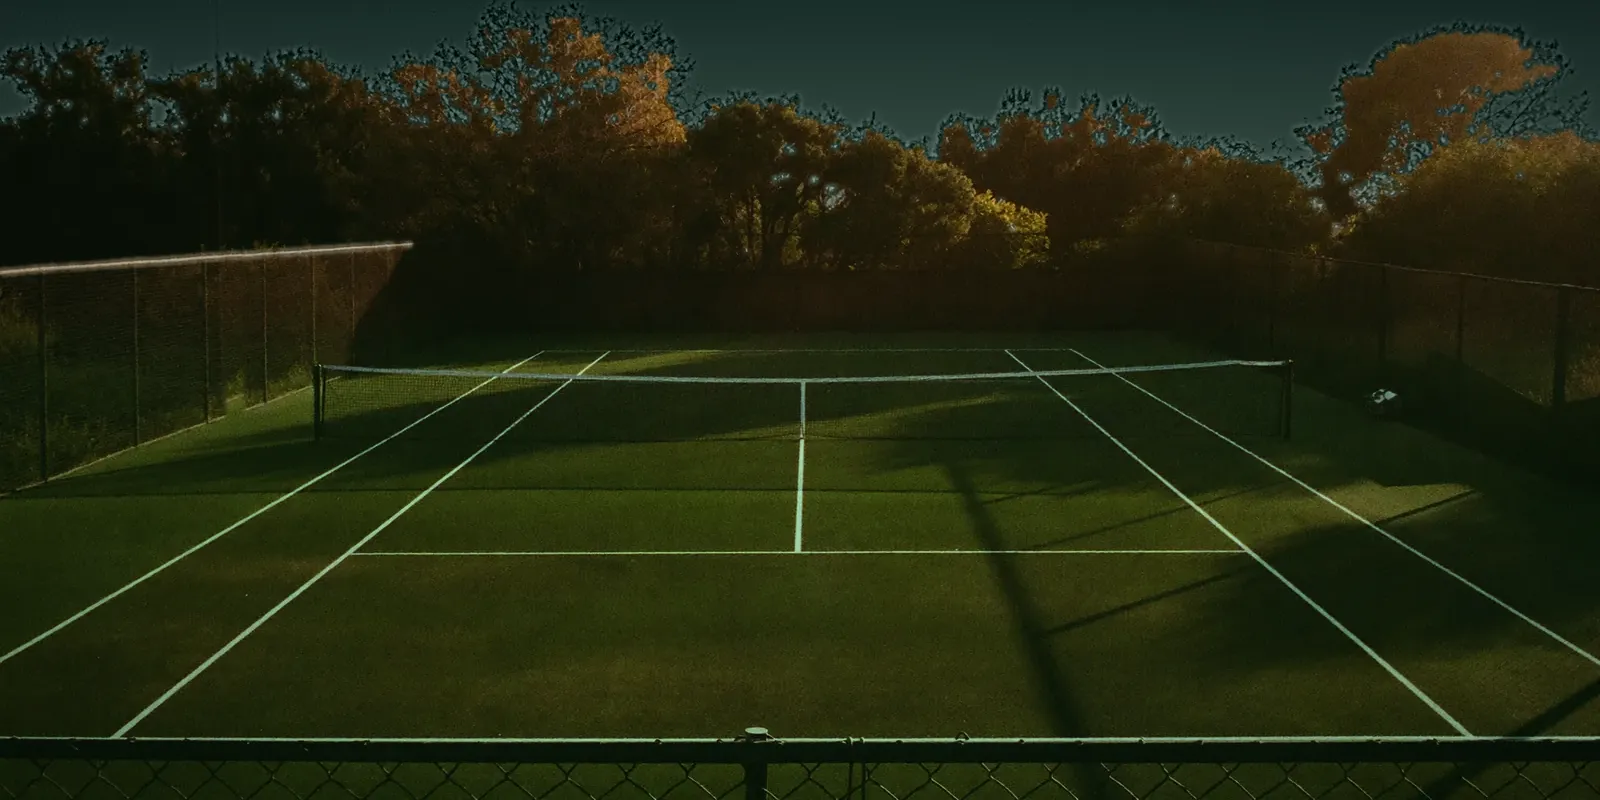
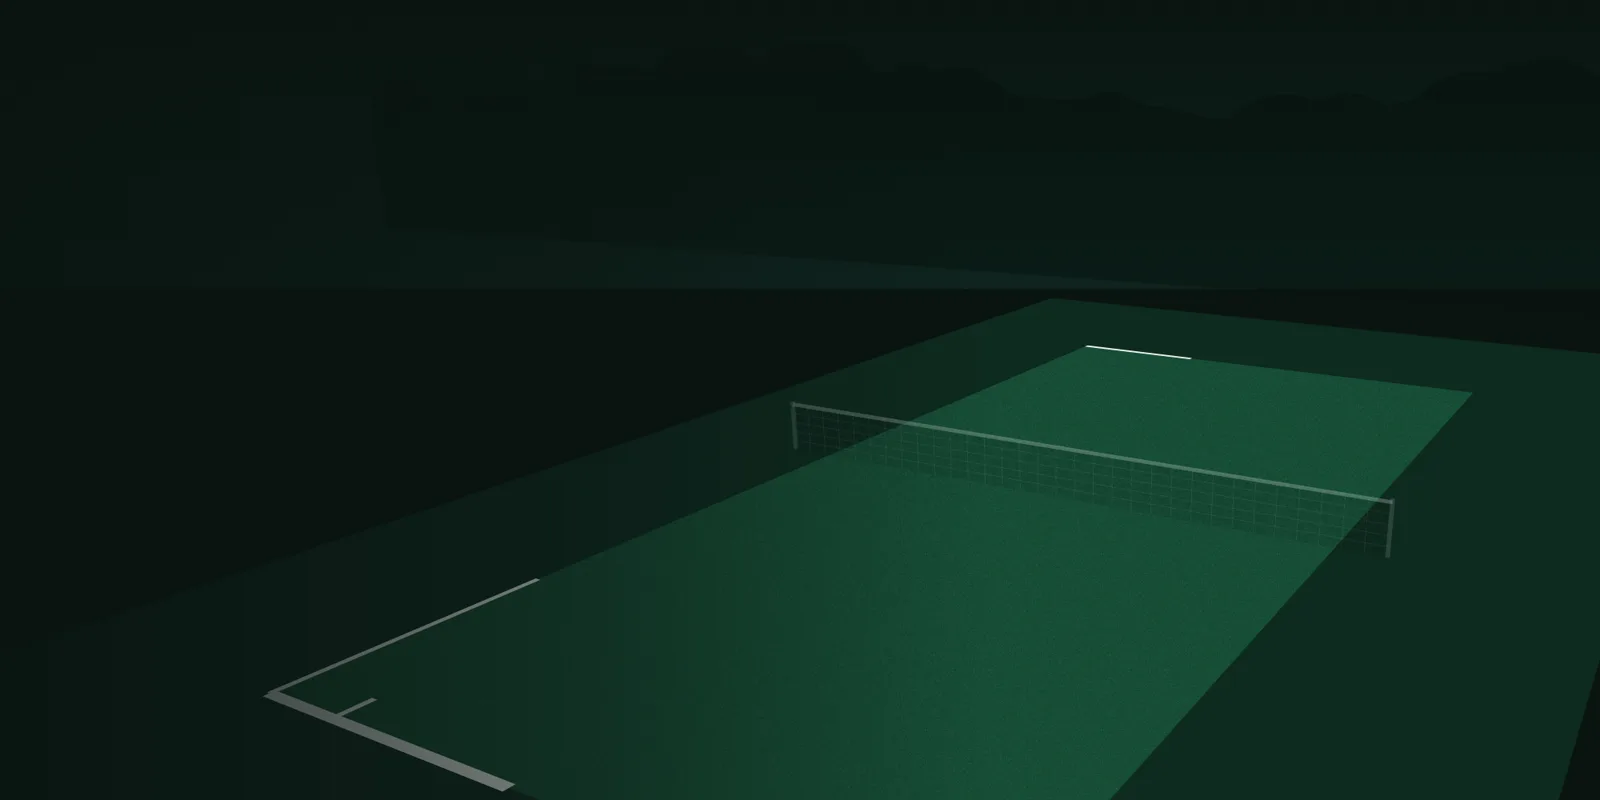
landing: back to the drawn court hero with a moving ball, no light poles

diff --git a/landing.html b/landing.html
@@ -430,6 +430,10 @@ if (window.Site && Site.session()) document.getElementById("backLink").hidden = 
     g.globalAlpha = on * .9;
     poly([[-HW, -HL], [HW, -HL], [HW, HL], [-HW, HL]]); g.fillStyle = g.createPattern(grain, "repeat"); g.fill();
     g.globalAlpha = 1;
+    const c0 = P(0, 0), r = Math.max(W, H) * .58;
+    g.globalCompositeOperation = "screen";                        // light on the court
+    glow(c0[0], c0[1], r, "rgba(236,255,214,.3)", smooth(.2, 1, intro));
+    g.globalCompositeOperation = "source-over";
     g.fillStyle = "rgba(4,14,10,.3)";                             // the net's shadow
     if (intro > .5) { g.globalAlpha = smooth(.5, 1, intro) * (1 - cam.rise); poly([[-6.4, 0], [6.4, 0], [6.4, .85], [-6.4, .85]]); g.fill(); g.globalAlpha = 1; }
     g.fillStyle = C.line;
@@ -465,31 +469,27 @@ if (window.Site && Site.session()) document.getElementById("backLink").hidden = 
     }
     return SHOTS[SHOTS.length - 1][1];
   }
-  // The opening shot is a real photo of a court. The ball is placed on it with the court's own perspective,
-  // measured from the photo's lines; scrolling fades the photo into the app's top-down view.
-  const PW = 1600, PH = 1067, HM = [74.989005, 37.04882, 802.284402, -.977408, 20.682633, 707.352523, -.000974, .045422];
-  const photo = new Image();
-  let fit = { s: 1, x: 0, y: 0 };
-  function fitPhoto(push) {
-    const s = Math.max(W / PW, H / PH) * (wide ? 1.14 : 1) * (1 + push * .07);
-    fit = { s, x: clamp((wide ? W * .6 : W * .5) - PW * s / 2, W - PW * s, 0), y: H - PH * s };
-  }
-  function onPhoto(x, y, z = 0) {
-    const m = (a, b) => { const w = HM[6] * a + HM[7] * b + 1; return [(HM[0] * a + HM[1] * b + HM[2]) / w, (HM[3] * a + HM[4] * b + HM[5]) / w]; };
-    const q = m(x, y), e = m(x + 1, y), px = Math.hypot(e[0] - q[0], e[1] - q[1]);
-    return [fit.x + q[0] * fit.s, fit.y + (q[1] - z * px * .83) * fit.s, px * fit.s];
-  }
   function drawRally(sec, a) {
-    if (a <= 0 || sec < 0) return;
+    if (a <= 0) return;
+    if (sec < 0) return;
     const round = Math.floor(sec / (LOOP + HOLD)), t = sec % (LOOP + HOLD), m = round % 2 ? -1 : 1;
     const at = (u) => { const q = ballAt(clamp(u, 0, LOOP)); return [q[0] * m, q[1], q[2]]; };
-    const fade = a * (t > LOOP ? 1 - smooth(LOOP + .4, LOOP + 1, t) : smooth(0, .25, t));
-    const b = at(t), sh = onPhoto(b[0], b[1]), p = onPhoto(...b), o = onPhoto(...at(t - .012)), r = Math.max(2.2, p[2] * .036);
-    g.globalAlpha = fade * .5 / (1 + b[2] * .5); g.fillStyle = "#050C08";          // soft shadow on the court
-    g.beginPath(); g.ellipse(sh[0], sh[1], r * 1.5, r * .6, 0, 0, 7); g.fill();
-    g.lineCap = "round"; g.strokeStyle = "#DDE86A"; g.lineWidth = r * 2;           // motion blur, as a camera sees it
-    g.globalAlpha = fade * .85; g.beginPath(); g.moveTo(o[0], o[1]); g.lineTo(p[0], p[1]); g.stroke();
-    g.globalAlpha = 1;
+    const fade = a * (t > LOOP ? 1 - smooth(LOOP + .8, LOOP + HOLD, t) : smooth(0, .25, t));
+    const n = 16;
+    g.lineCap = "round";
+    for (let i = n; i > 0; i--) {           // trail
+      const p = P(...at(t - i * .02)), q = P(...at(t - (i - 1) * .02));
+      g.globalAlpha = fade * (1 - i / n) * .7; g.strokeStyle = C.ball; g.lineWidth = Math.max(1.5, q[2] * .075 * (1 - i / n));
+      g.beginPath(); g.moveTo(p[0], p[1]); g.lineTo(q[0], q[1]); g.stroke();
+    }
+    const b = at(t), sh = P(b[0], b[1], 0), p = P(...b), r = Math.max(4.5, p[2] * .11);
+    g.globalAlpha = fade * .4; g.fillStyle = "#04100A"; g.beginPath(); g.ellipse(sh[0], sh[1], r * 1.3, r * .5, 0, 0, 7); g.fill();
+    glow(p[0], p[1], r * 5, "rgba(198,218,44,.55)", fade);
+    g.globalAlpha = fade; g.fillStyle = C.ball; g.beginPath(); g.arc(p[0], p[1], r, 0, 7); g.fill(); g.globalAlpha = 1;
+    if (t > LOOP - .3) {                    // the miss
+      const k = clamp((t - LOOP + .3) / .9), q = P(...at(LOOP));
+      g.globalAlpha = fade * (1 - k); g.strokeStyle = C.lost; g.lineWidth = 2.5; g.beginPath(); g.arc(q[0], q[1], r + k * q[2] * .9, 0, 7); g.stroke(); g.globalAlpha = 1;
+    }
   }
 
   // The 11 points one player lost in the example match. Counts are real; spots are illustrative.
@@ -538,18 +538,10 @@ if (window.Site && Site.session()) document.getElementById("backLink").hidden = 
       g = main;
     }
     g.drawImage(bg, 0, 0, W, H);
-    const ready = photo.complete && photo.naturalWidth, photoA = ready ? 1 - smooth(.1, .2, p) : 0;
-    if (ready && p < .28) {                 // the photo dips to dark, then the data view comes up: never two courts at once
-      g.globalAlpha = 1 - smooth(.2, .28, p); g.fillStyle = C.deep; g.fillRect(0, 0, W, H); g.globalAlpha = 1;
-    }
-    if (photoA) {
-      fitPhoto(smooth(0, .3, p));
-      g.globalAlpha = photoA; g.drawImage(photo, fit.x, fit.y, PW * fit.s, PH * fit.s); g.globalAlpha = 1;
-      drawRally(sec - .6, photoA);
-    }
+    drawRally(sec - 1.1, 1 - smooth(.14, .3, p));
     drawMarks(p);
     // Fade for the words over the court on narrow screens and on the left on wide ones.
-    const sh = wide ? g.createLinearGradient(0, 0, W * .54, 0) : g.createLinearGradient(0, 0, 0, H * .72);
+    const sh = wide ? g.createLinearGradient(0, 0, W * .62, 0) : g.createLinearGradient(0, 0, 0, H * .72);
     sh.addColorStop(0, "rgba(10,20,16,.92)"); sh.addColorStop(.6, "rgba(10,20,16,.5)"); sh.addColorStop(1, "rgba(10,20,16,0)");
     g.globalAlpha = 1 - smooth(.2, .45, p) * (wide ? .35 : 1); g.fillStyle = sh; g.fillRect(0, 0, W, H); g.globalAlpha = 1;
     if (!calm) {
@@ -571,8 +563,6 @@ if (window.Site && Site.session()) document.getElementById("backLink").hidden = 
   addEventListener("resize", () => { resize(); onScroll(); });
   new IntersectionObserver(([e]) => { visible = e.isIntersecting; if (visible) tick(); }).observe(stage);
   document.fonts?.ready.then(tick);
-  photo.onload = tick;
-  photo.src = "court-dusk-2400.webp";
   resize(); onScroll();
 })();
 </script>

diff --git a/modal_app.py b/modal_app.py
@@ -2120,7 +2120,7 @@ def web_app():
     _assets = {"passcode.js": "text/javascript", "site.js": "text/javascript", "site.css": "text/css", "tokens.css": "text/css", "court.css": "text/css",
                "recorder.js": "text/javascript", "record_match.js": "text/javascript",
                "manifest.webmanifest": "application/manifest+json",
-               "icon.svg": "image/svg+xml", "icon-192.png": "image/png", "icon-512.png": "image/png", "court-dusk-2400.webp": "image/webp",
+               "icon.svg": "image/svg+xml", "icon-192.png": "image/png", "icon-512.png": "image/png",
                **{f"{n}-{w}.webp": "image/webp" for n in ("hero-court", "band-phone", "band-ball", "court-night") for w in (800, 1600)}}
 
     @fastapi_app.get("/{name}")

diff --git a/DESIGN.md b/DESIGN.md
@@ -44,8 +44,8 @@
 
 ## Landing page (`/`, Nov 4)
 - One shared header (`site.js`, same logo, links change when signed in) and footer. The logo always opens this page; signed-in players also get an About link. Signed-in visitors see "Go to your dashboard"; the app pages link back here from the footer and the empty dashboard.
-- Landing opens on a real photo (`court-dusk-2400.webp`, the film court photo with the light pole removed, graded to dusk), with a small ball placed using the court's own perspective; no lights, no glow (Rudra, Nov 4: less "AI vibe-code"). Scrolling dips to dark, then the drawn top-down data view takes over.
-- `court-night-*.webp`: a crop of that photo, used as the top band on the dashboard, report, account and new analysis pages, so every page opens on the same court.
+- Landing opens on the drawn back-fence court with a moving ball: no light poles, no players (Rudra, Nov 4: tried a dusk photo and reactive players; players hurt the premium feel).
+- `court-night-*.webp`: a still of the landing court, used as the top band on the dashboard, report, account and new analysis pages, so every page opens on the same court.
 - Colours added: `--court-deep` #0A1410 (page dark), `--court-out` #154734, `--court-in` #1E7A52, `--court-line` #EEF2EF, `--lost-glow` #F2836F.
 - **Wow moment:** a drawn court, seen from the back fence where the phone films, with a rally that ends in the net. Scrolling raises the camera overhead, the 11 lost points of the example match land on the court, then the net errors light up and the #1 fix card appears. Real counts; spots labelled as illustration.
 - Order: court story, how it works (3 steps), the report, 17 of 20 band, for coaches (sample team view, labelled), for parents and schools, Every point counts. No price shown yet. Motion is this one moment only; reduced motion or no scripts shows everything stacked.
